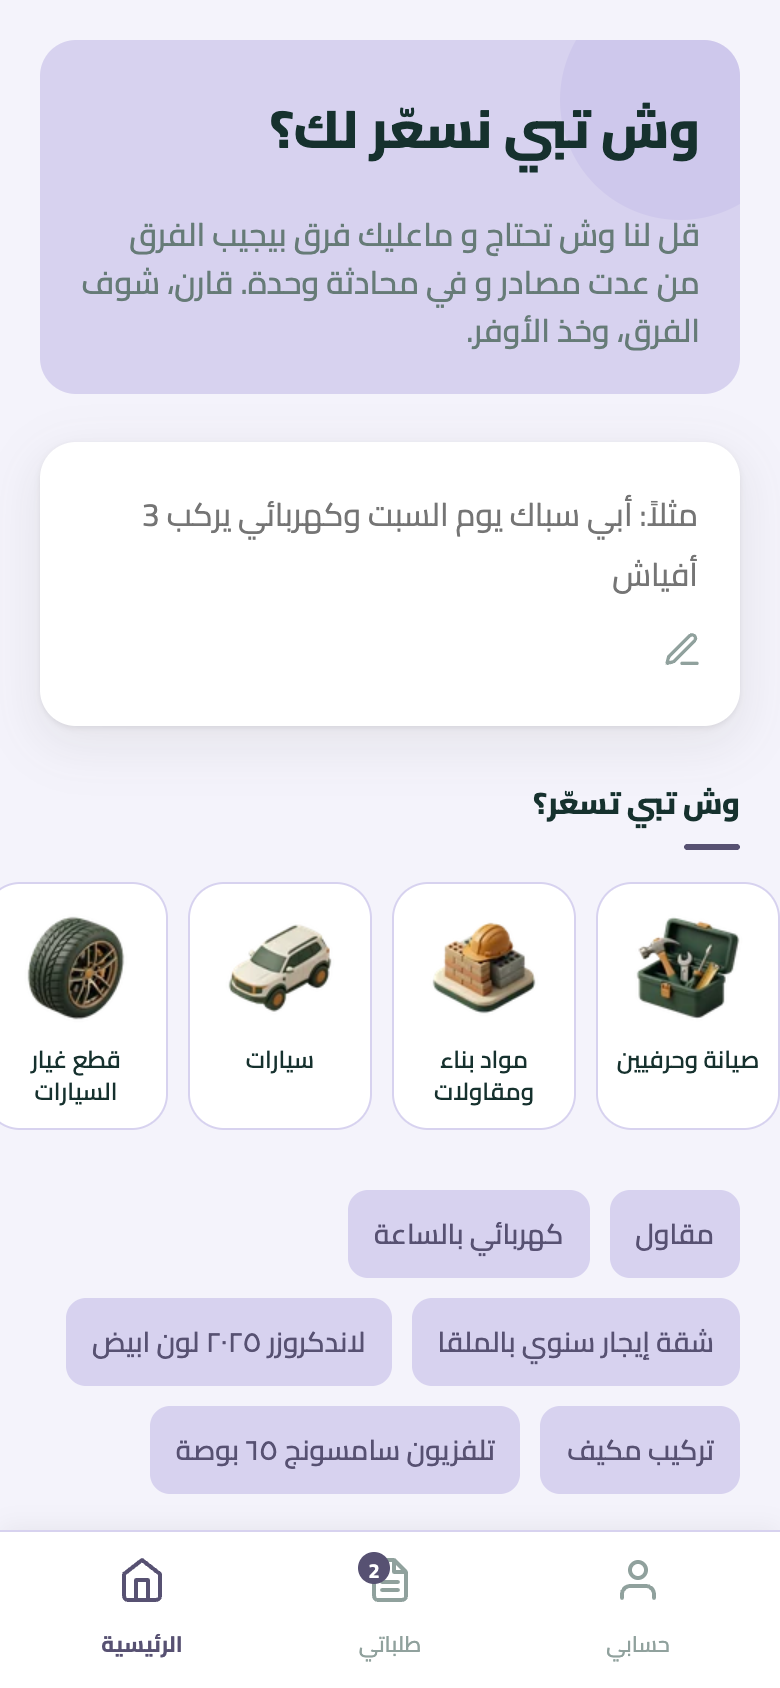
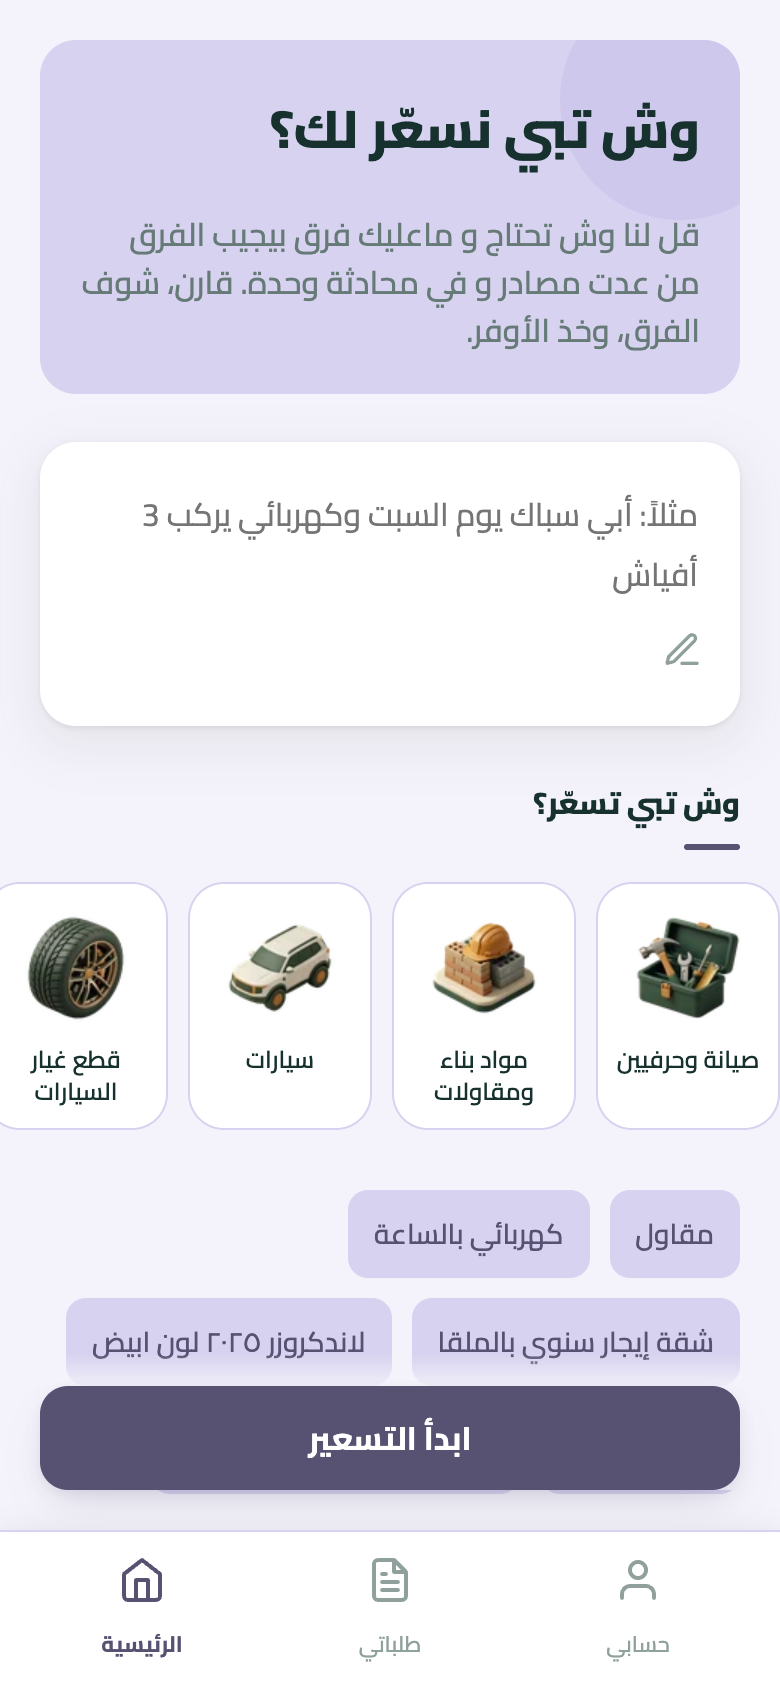
Audit report: second round, measured

Changed region(s): [[0.0308, 0.8009, 0.9538, 0.955]]

diff --git a/docs/audits/qa_2026-09-26/prod_link_flow.py b/docs/audits/qa_2026-09-26/prod_link_flow.py
@@ -1,0 +1,34 @@
+"""Production: a Farq account meets an old Taseer password account with the same email.
+Expected: the frame shows the one-time link screen, the password links them, the nav appears."""
+import json, time
+from playwright.sync_api import sync_playwright
+OUT = "/Users/m4pro/Farq-taseer/docs/audits/qa_2026-09-26/shots"
+a = json.load(open("/tmp/taseer-local/qa2.json"))
+def note(*x): print(" ".join(str(i) for i in x), flush=True)
+with sync_playwright() as p:
+    b = p.chromium.launch(channel="chrome", headless=True)
+    ctx = b.new_context(viewport={"width": 390, "height": 844}, device_scale_factor=2, is_mobile=True, has_touch=True, locale="ar-SA")
+    page = ctx.new_page(); page.set_default_timeout(30000)
+    page.goto("https://www.farq.sa/taseer?signin=1", wait_until="domcontentloaded")
+    page.wait_for_selector("#auth-signin-email"); page.fill("#auth-signin-email", a["email"]); page.fill("#auth-signin-password", a["farq_password"])
+    page.locator("[role=dialog] button[type=submit]").first.click()
+    for _ in range(60):
+        if not page.locator("#auth-signin-email").count(): break
+        time.sleep(0.5)
+    note("A. signed in to Farq as", a["email"])
+    ck = page.locator("button:has-text('قبول')"); ck.first.click() if ck.count() else None
+    fl = page.frame_locator("iframe[data-testid=taseer-embed]")
+    fl.locator("#auth-form").wait_for(timeout=30000); time.sleep(0.5)
+    note("B. frame shows the link screen:", fl.locator("h1").last.inner_text(), "|", fl.locator(".fq-lead").first.inner_text()[:80])
+    page.screenshot(path=f"{OUT}/prod_link_01_screen.png")
+    fl.locator("#auth-email").fill(a["email"]); fl.locator("#auth-password").fill(a["taseer_password"])
+    fl.locator("button[form=auth-form]").click()
+    fl.locator(".fq-tab").nth(2).wait_for(timeout=30000); time.sleep(1.0)
+    note("C. after the password: tabs =", fl.locator(".fq-tab").count(), "| toast/notice:", fl.locator("main").inner_text()[:80].replace("\n"," | "))
+    page.screenshot(path=f"{OUT}/prod_link_02_linked.png")
+    fl.locator("[data-action=account]").first.click(); time.sleep(1.2)
+    note("D. account:", [l for l in fl.locator("main").inner_text().split("\n") if "@" in l or "قديم" in l][:3])
+    # a fresh visit: Farq session alone must now be enough
+    page.goto("https://www.farq.sa/taseer", wait_until="domcontentloaded"); fl = page.frame_locator("iframe[data-testid=taseer-embed]")
+    fl.locator(".fq-tab").nth(2).wait_for(timeout=30000); note("E. fresh visit with Farq session only: tabs =", fl.locator(".fq-tab").count(), "| link screen shown:", fl.locator("#auth-form").count())
+    b.close(); note("DONE")

diff --git a/docs/audits/qa_2026-09-26/fallback_check.py b/docs/audits/qa_2026-09-26/fallback_check.py
@@ -1,0 +1,19 @@
+"""Production: a frame whose parent never answers the sign-in request must open Taseer's own form
+within ~3s of the send tap (the send itself is NOT completed: real suppliers)."""
+import time
+from playwright.sync_api import sync_playwright
+with sync_playwright() as p:
+    b = p.chromium.launch(channel="chrome", headless=True)
+    ctx = b.new_context(viewport={"width": 390, "height": 844}, device_scale_factor=2, is_mobile=True, has_touch=True, locale="ar-SA")
+    page = ctx.new_page(); page.set_default_timeout(30000)
+    page.goto("https://taseer.farq.sa/?embed=1", wait_until="domcontentloaded"); page.wait_for_selector("#composer-query")
+    page.fill("#composer-query", "أبي سباك يصلح تسريب"); page.locator("button[form=composer]").click()
+    page.wait_for_selector(".fq-needcard")
+    if page.locator("[data-action=need-city]").count(): page.locator("button[data-action=need-city]:has-text('الرياض')").first.click()
+    page.locator("button[data-action=run-search]").click(); page.wait_for_selector(".fq-result", timeout=60000)
+    page.locator("button[data-action=toggle]").first.click(); page.locator("button[data-action=review]").click(); page.wait_for_selector("button[data-action=send]")
+    t = time.time(); page.locator("button[data-action=send]").click()
+    page.wait_for_selector("#auth-form", timeout=10000)
+    print("form appeared", round(time.time() - t, 1), "s after the send tap | title:", page.locator("h1").last.inner_text(), "| lead:", page.locator(".fq-lead").first.inner_text()[:90])
+    page.screenshot(path="/Users/m4pro/Farq-taseer/docs/audits/qa_2026-09-26/shots/prod_fallback_form.png")
+    b.close(); print("DONE")

diff --git a/docs/audits/qa_2026-09-26/banner_check.py b/docs/audits/qa_2026-09-26/banner_check.py
@@ -1,0 +1,13 @@
+import time
+from playwright.sync_api import sync_playwright
+with sync_playwright() as p:
+    b = p.chromium.launch(channel="chrome", headless=True)
+    ctx = b.new_context(viewport={"width": 390, "height": 844}, device_scale_factor=2, is_mobile=True, has_touch=True, locale="ar-SA")
+    page = ctx.new_page(); page.set_default_timeout(30000)
+    page.goto("https://www.farq.sa/taseer", wait_until="domcontentloaded"); page.wait_for_selector("iframe[data-testid=taseer-embed]"); time.sleep(3)
+    ib = page.locator("iframe[data-testid=taseer-embed]").bounding_box(); bb = page.locator("[role=dialog][data-sector]").first.bounding_box()
+    print("iframe bottom:", round(ib["y"]+ib["height"]), "| banner top:", round(bb["y"]) if bb else None, "| clear:", (bb is None) or (ib["y"]+ib["height"] <= bb["y"]+1))
+    fl = page.frame_locator("iframe[data-testid=taseer-embed]"); tab = fl.locator(".fq-tab").first; tb = tab.bounding_box()
+    print("frame nav tab box:", tb, "| above banner:", tb and bb and tb["y"]+tb["height"] <= bb["y"]+1)
+    page.screenshot(path="/Users/m4pro/Farq-taseer/docs/audits/qa_2026-09-26/shots/prod_banner_fixed_390.png")
+    b.close()

diff --git a/docs/audits/qa_2026-09-26/verify_relevance.py b/docs/audits/qa_2026-09-26/verify_relevance.py
@@ -1,0 +1,10 @@
+import json, time, urllib.request
+def search(q):
+    req = urllib.request.Request("https://taseer.farq.sa/v1/search", data=json.dumps({"query": q}).encode(), headers={"Content-Type": "application/json"})
+    d = json.load(urllib.request.urlopen(req, timeout=90)); res = d.get("results", []) + [r for g in d.get("groups", []) for r in g.get("results", [])]
+    return [((r.get("ad") or {}).get("title") or "")[:70] for r in res]
+for q, bad in (("أبي صيانة غسالة الرياض", ("تحتاج", "بها عطل", "نظيفه")), ("أبي بطارية سيارة 70 أمبير الرياض", ("150", "200", "92", "100 امبير", "اسكوتر", "48 فولت")), ("أبي كفرات 265/60 R18 الرياض", ("65R17", "65 18", "70 18", "75r16")), ("أبي مولد كهرباء 10 كيلو الرياض", ("18 كيلو", "120 كيلو", "35 كيلو", "50KVA"))):
+    titles = search(q); wrong = [t for t in titles if any(b in t for b in bad)]
+    print(q, "| results:", len(titles), "| still wrong:", len(wrong), wrong[:3], flush=True)
+    for t in titles[:5]: print("   -", t, flush=True)
+print("DONE")

diff --git a/docs/audits/qa_2026-09-26/report.md b/docs/audits/qa_2026-09-26/report.md
@@ -45,3 +45,17 @@
 | mobile 390/430 | PASS مع ملاحظة | لا overflow أفقي؛ شريط الكوكيز كان يغطي أسفل الإطار → PR #1273 |
 | auth (logout/expired) | جزئي | الخروج من رأس فرق يُبلَّغ للإطار (كود + اختبار)؛ لم يُعد على الإنتاج |
 | القطاعات الأخرى | PASS | مطاعم/بقالة على 3 مقاسات بلا أخطاء بعد النشر |
+
+
+## الجولة الثانية (نفس اليوم): التحسينات 2–7 وأثرها المقاس على الإنتاج
+| # | التحسين | قبل | بعد | الدليل |
+|---|---|---|---|---|
+| 2 | زر «ابدأ التسعير» في متناول اليد داخل إطار فرق (390px) | أسفل الزر عند 1061px من شاشة 844 (خارج الشاشة) | 609px (ظاهر بلا تمرير) | `measure_prod.py` |
+| 3 | المدينة داخل «هذا اللي فهمناه» بدل شاشة مستقلة | 3 نقرات من «ابدأ» للنتائج، وشاشتان | زيارة أولى: 3 نقرات بشاشة واحدة أقل؛ زيارة ثانية (المدينة محفوظة): نقرتان | `measure_prod.py` |
+| 4 | طلب مستقل لكل بند | «سباك + كهربائي» = طلب واحد ومحادثة واحدة، والمورد يقرأ سطر غيره | طلبان، لكل بند محادثته ومورده وبنده فقط؛ شاشة الإرسال تعددهم | `local_e2e.log` (D/F) |
+| 5 | أول نتائج أسرع | M02 بعد 0.74ث، أول نتيجة بعد 4.35ث (المجموع ≈ 5.1ث) | M02 بعد 0.83–0.97ث، أول نتيجة بعد 1.83ث (المجموع ≈ 2.7ث) — قراءة النموذج تُدفّأ خلف M02 وتُشارك عبر المخزن بين الـ instances | `measure_prod.py` قبل/بعد |
+| 6 | مجموعة ذهبية في CI | 205 صفًا من 23-09 فقط | +283 صفًا (25 استعلامًا حقيقيًا، عناوين حية، قراءة النموذج الفعلية)؛ 25 صفًا كانت خاطئة وأُصلحت بأربع قواعد (spec_mismatch، tyre_size_mismatch، item_not_provider، product_not_trade للنجار) | `tests/test_matching_regression_2026_09_26.py`؛ إنتاج: بطارية 70 أمبير 0 خاطئ (كان 6)، كفرات 0 (كان 9)، مولد 0 (كان 4)، صيانة غسالة 2 (كان 5؛ المتبقيان بإملاء «عسالة») |
+| 7 | خروج موحّد + الحسابات القديمة | خروج تسعير المستقل يعيد الدخول تلقائيًا من كوكي فرق | الخروج يمسح كوكي فرق أيضًا؛ داخل فرق لا زر خروج (رأس فرق يملكه). إشعار الحسابات القديمة الثمانية **معلّق**: لا mailer ولا صندوق إشعارات للعميل؛ يرونه عند أول دخول كشاشة ربط | `web/app.js` |
+
+### الزر الميت على جوال المالك (bug مباشر)
+تطبيق iOS يحمّل نسخة فرق مضمّنة (`webDir: dist`)، أي نسخة قديمة بلا جسر الجلسة، وأصله `https://localhost` بلا كوكي مشترك. الضغط على «أرسل» يطلب من فرق جلسة لا تصل أبدًا. الإصلاح (`b0432eb`): إن لم تصل جلسة فرق خلال 3 ثوانٍ يفتح نموذج دخول تسعير داخل الإطار مع شرح، ويكمل الإرسال. الحل الجذري: بناء iOS جديد من `main` الحالي.
